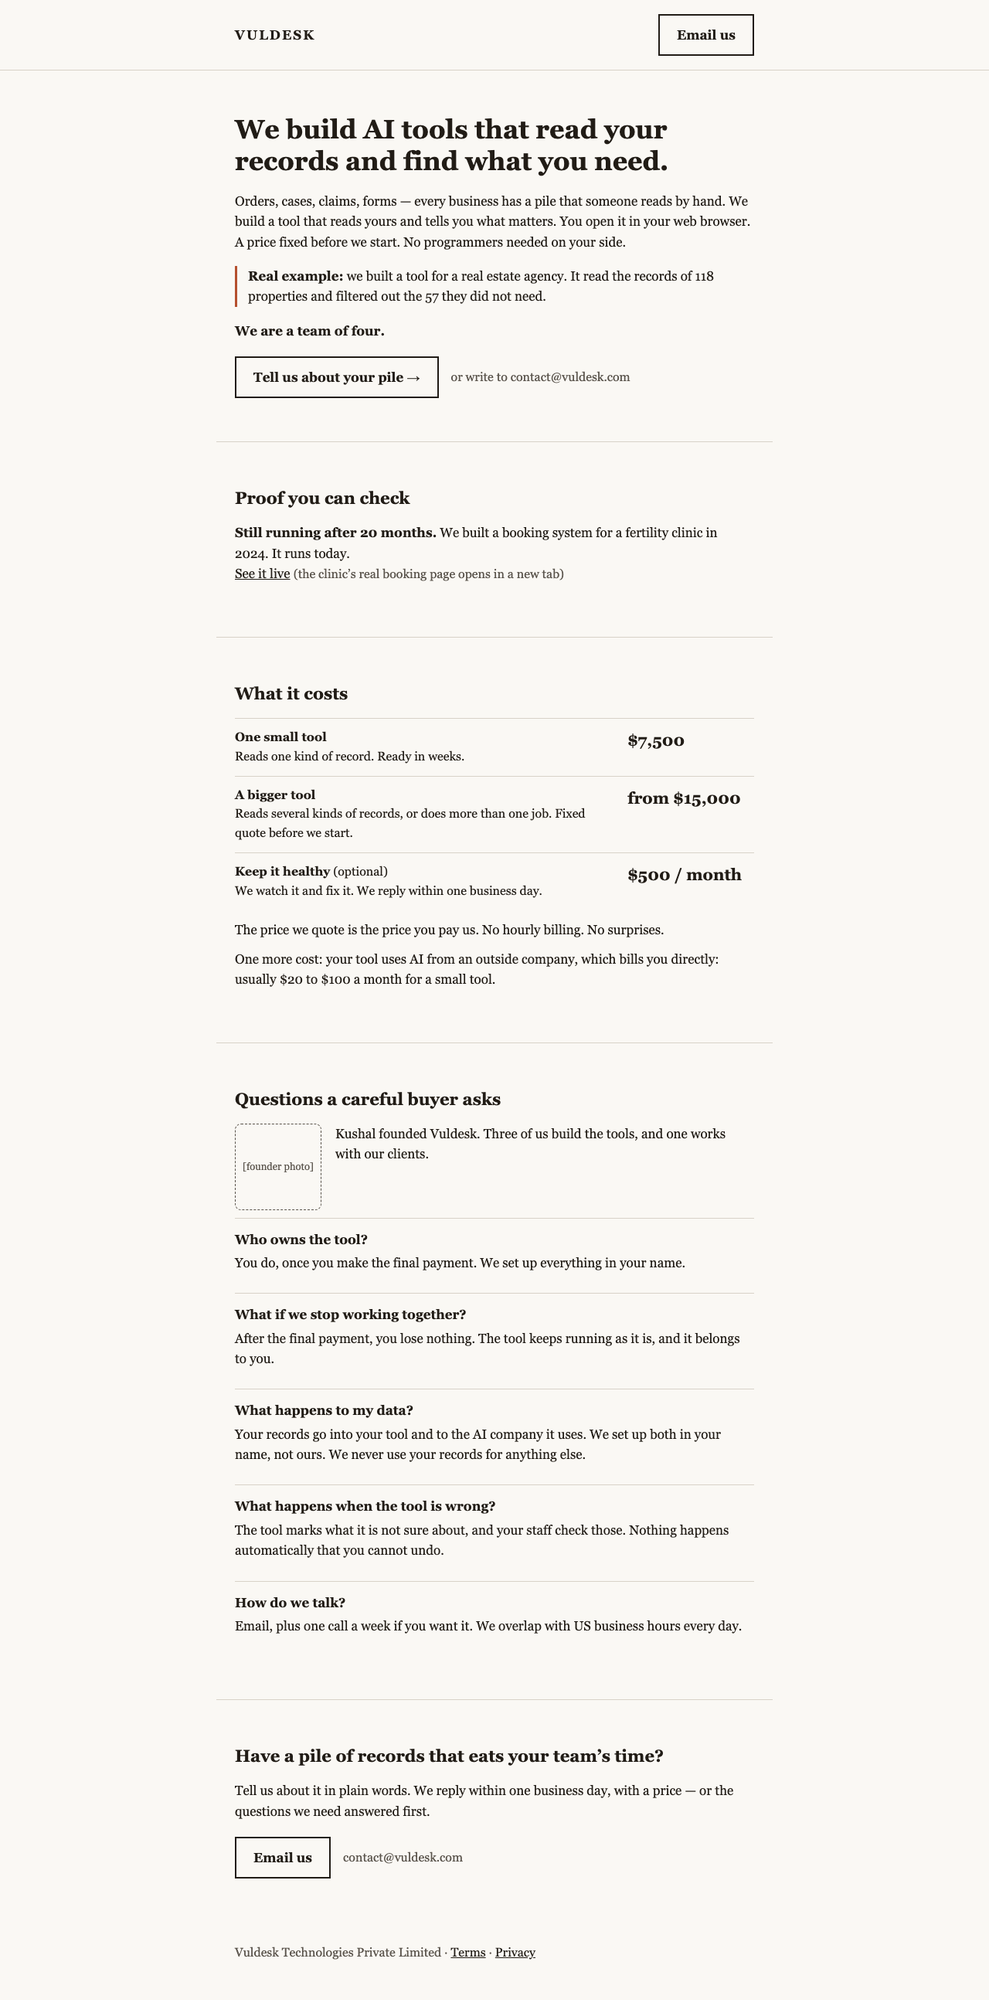
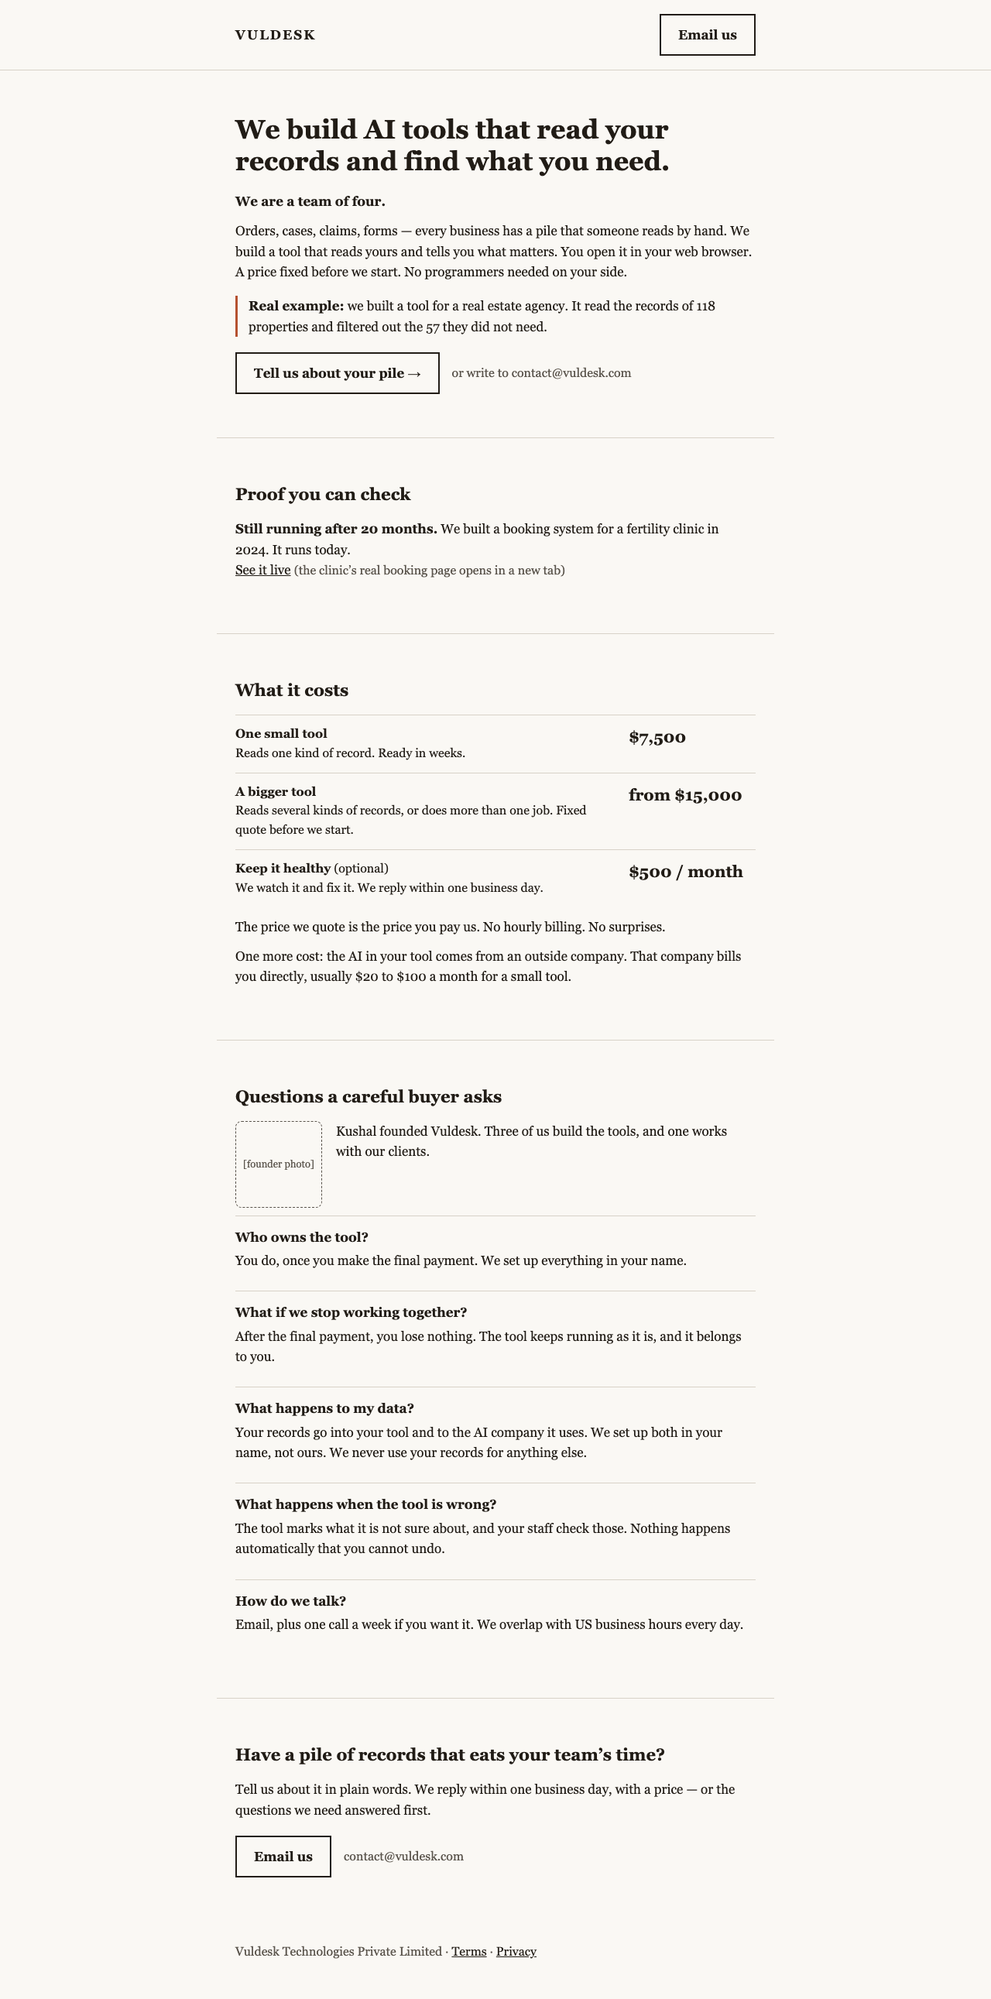
fix: team size directly under the H1; cost line in two sentences (D35)
P6 on 705336a failed twice on one group: the clinic owner on the phone
read only the H1 and the start of the next line, and answered "not sure".
Owner decision D35 = A (2026-10-31):
- "We are a team of four." moves directly under the H1 (hero child 2; the
  position-based stagger is unchanged). Phone 375 x 667: button 624 px,
  email line now inside the fold at 664 px.
- The cost line becomes two sentences, with the same facts as Q8.
- Wireframe of record v4.7; the design doc and the harness history record
  the run. 444 of 450 visible words.

diff --git a/docs/designs/assets/one-page-wireframe-v4.html b/docs/designs/assets/one-page-wireframe-v4.html
@@ -3,7 +3,7 @@
 <head>
 <meta charset="utf-8">
 <meta name="viewport" content="width=device-width, initial-scale=1">
-<title>Vuldesk — one-page wireframe v4.6</title>
+<title>Vuldesk — one-page wireframe v4.7</title>
 <!-- WIREFRAME v4 — company story (office hours 2026-10-30). Builds on v3 and on
      the live page (index.astro at 6793c65): same five blocks, same set-letter
      tokens, same prices. Changes, each tied to a decision of this session:
@@ -44,6 +44,9 @@
      you need" (was "give you answers"); price row 2 "or does more than one job" (was "and does more
      with them"); the cost line names "AI from an outside company". Kept: price row 1, the proof line,
      the example without the 28-hours figure.
+     v4.7 (D35 = A, owner 2026-10-31, after P6 on 705336a failed twice: the clinic owner on the phone
+     read only the H1 and the start of the next line): "We are a team of four." moves directly under
+     the H1; the cost line becomes two sentences (same facts as Q8).
 -->
 <style>
   :root {
@@ -102,13 +105,13 @@
 <section>
   <div class="measure">
     <h1>We build AI tools that read your records and find what you need.</h1>
+    <p><b>We are a team of four.</b></p>
     <p>Orders, cases, claims, forms &mdash; every business has a pile that someone reads
        by hand. We build a tool that reads yours and tells you what matters. You open it
        in your web browser. A price fixed before we start. No programmers needed on
        your side.</p>
     <p class="callout"><b>Real example:</b> we built a tool for a real estate agency. It read
        the records of 118 properties and filtered out the 57 they did not need.</p>
-    <p><b>We are a team of four.</b></p>
     <div class="cta-row">
       <a class="btn" href="mailto:contact@vuldesk.com?subject=My%20pile%20of%20records&amp;body=Hi%20Vuldesk%20team%2C">Tell us about your pile &rarr;</a>
       <span class="cta-alt">or write to contact@vuldesk.com</span>
@@ -147,8 +150,8 @@
     </table>
     <p style="margin-top:12px">The price we quote is the price you pay us. No hourly
        billing. No surprises.</p>
-    <p>One more cost: your tool uses AI from an outside company, which bills you
-       directly: usually $20 to $100 a month for a small tool.</p>
+    <p>One more cost: the AI in your tool comes from an outside company. That company
+       bills you directly, usually $20 to $100 a month for a small tool.</p>
   </div>
 </section>
 

diff --git a/docs/designs/company-story-we-voice.md b/docs/designs/company-story-we-voice.md
@@ -22,8 +22,8 @@ replaces these parts of the August doc:
 - CHECK 3's banned list (item 7), and the cold-read harness pass bar and protocol (P6, item 10).
 Everything else stays as written: the reader, the offer, the prices, the set-letter design
 system (including design-review D14: its first-screen rule stays, with the H1, the first
-sentence of the sub and the CTA on the 375 x 667 first screen; the hero keeps the live order, the
-example, then the team line, then the CTA, not the "evidence line directly after the CTA" that D14
+sentence of the sub and the CTA on the 375 x 667 first screen; the hero order is the H1, the team
+line, the sub, the example, then the CTA (D35, owner 2026-10-31, after P6 on `705336a`), not the "evidence line directly after the CTA" that D14
 also names), CHECKS 1-2 and 4-8, and the rest of the harness.
 
 ## Problem Statement
@@ -239,7 +239,7 @@ as the team story.
 ## Recommended Approach
 
 E as it stands after D10-D16. The copy of record is
-`docs/designs/assets/one-page-wireframe-v4.html` (v4.6, after the copy round). In the page copy (item 1), each change
+`docs/designs/assets/one-page-wireframe-v4.html` (v4.7, after P6 on `705336a`; D35). In the page copy (item 1), each change
 replaces an existing line, except two new lines: the team line and the AI cost line. Items 0, 6, 7,
 9, 10 and 11 add new files or new entries, and each item names them.
 
@@ -256,7 +256,7 @@ replaces an existing line, except two new lines: the team line and the AI cost l
      real estate agency. It read the records of 118 properties and filtered out the 57 they did
      not need." ("agency", not the owner's "agents": "agents" is on the jargon list. The owner
      confirmed this line as true on 2026-10-31, Q12.)
-   - Hero (D12): after the example, a plain paragraph: "**We are a team of four.**" (True on
+   - Hero (D12, D35): directly under the H1, a plain paragraph: "**We are a team of four.**" (True on
      2026-10-31 per Q7. Update this line and the founder line together when the team changes; one
      code comment above both lines says so, E4.) The roles sentence goes to the
      founder line (below), because August design-review D14 requires the H1, the first sentence
@@ -264,12 +264,14 @@ replaces an existing line, except two new lines: the team line and the AI cost l
      the v4.3 hero text: with the roles sentence in the hero, the button's bottom edge sits at
      672 px, 5 px below the fold; with the short line it sits at 646 px. On the spike build of the
      v4.4 copy (fonts loaded), the button ends at 630 px and the email line at 670 px, 3 px below
-     the fold (eng review E7).
+     the fold (eng review E7). With the team line directly under the H1 (D35, v4.7), the button
+     ends at 624 px and the email line at 664 px, inside the fold.
    - Proof: "I built a booking system" becomes "We built a booking system".
    - Prices: "We watch it and fix it. We reply within one business day." and "The price we
      quote is the price you pay us." ("us" is new: the page now names a second payee.) Then a
-     new line (Q8): "One more cost: your tool uses AI from an outside company, which bills you
-     directly: usually $20 to $100 a month for a small tool." (D33, after the copy round). Price row
+     new line (Q8): "One more cost: the AI in your tool comes from an outside company. That company
+     bills you directly, usually $20 to $100 a month for a small tool." (D35, after P6: the D33
+     one-sentence version lost 3 of 3 whole-page readers). Price row
      2 becomes "Reads several kinds of records, or does more than one job." (D32)
    - Trust block founder line: "Kushal founded Vuldesk. Three of us build the tools, and one
      works with our clients." The photo and its alt text "Kushal, founder of Vuldesk" stay. The photo file moves
@@ -353,7 +355,7 @@ replaces an existing line, except two new lines: the team line and the AI cost l
 Word budget: wireframe v4.4 has 427 visible words and zero jargon terms (CHECK 5 logic run on
 the file). The built page has a longer <title> and footer than the wireframe and a photo in
 place of the placeholder, so CHECK 5 on the build decides; expect about 435 of 450. Measured on the spike build of the v4.4 copy: 438 of 450 (eng
-review, 2026-10-31). After the copy round (v4.6): 441 of 450, zero jargon.
+review, 2026-10-31). After the copy round (v4.6): 441 of 450, zero jargon. After D35 (v4.7): 444 of 450.
 
 11. `TODOS.md` (eng review E11): TODO 4 names the new buttons ("Tell us about your pile", "Email
     us"), and TODO 1 says "a small team" in place of "a solo operator". New TODO entries follow
@@ -428,6 +430,18 @@ rewrite also lost 3 of 3, so OQ3 stays open for row 1); the cost line names "AI 
 company" (lost 0 of 3, was 3 of 3; D33); the proof line stays (the "Not AI" version lowered trust for
 3 of 3; D34). Raw answers: `designs/wireframe-20261030/cold-read-v45.json`.
 
+P6 on the PR head `705336a` (2026-10-31; raw answers `designs/wireframe-20261030/p6-705336a-results.jsonl`
+and `p6-705336a-rerun.jsonl`): FAIL. Whole-page part: would contact new 3 of 3, live 2 of 3 (pass); the
+rewritten cost line lost 3 of 3, and the unchanged "Keep it healthy (optional)" lost 3 of 3 (an open
+question). Five-second part: 5 of 6 groups passed with medians equal to live (operations manager on
+the phone: 8 against 7); the clinic owner on the phone answered "not sure" in 1 of 3 runs, because she
+read only the H1 and the start of the next line. The D22 re-run failed the same way and was stopped
+after 8 of 36 runs, because the other runs could not change the fail. Team read over both passes: new
+24 of 26 "a team" (2 "not sure"), live 24 of 24 "one person". D35 (owner, 2026-10-31) = A: the team
+line moves directly under the H1, the cost line becomes two sentences, and P6 runs again on the new
+head. Open question for later: in 5 of 9 runs on the new page, the home-buying president asks what the
+example saved in hours or dollars (D31 left the 28-hours figure out).
+
 Answered on 2026-10-31: the monthly AI cost (Q8), the foreclosure example (Q9: removed; D15
 and Q10: back in plain words), the team size (Q7), who checks unsure items (Q11: the client's
 own staff), the pass bar (D14), the ownership wording (Q14), the city (D17: none) and the two
@@ -486,6 +500,8 @@ Scores are clinic owner, home-buying president, operations manager. Raw answers 
 | 2026-10-31 | wireframe v4.3 (example back in plain words; "your staff check those"; no booking link) | 6, 7, 7: 1 point under (president); accepted, D16 | 6, 8, 8 at 375 x 712 (email line below the fold) | 0 of 6 | 6 of 6 (5 guessed 4) | 3 of 3 |
 | 2026-10-31 | wireframe v4.4 (roles moved to the founder line; ownership answers per Q14; no booking link) | not run: P6 tests the built page | not run | - | - | - |
 | 2026-10-31 | built v4.4 vs v4.5 (the five copy-round rewrites), one two-step run per persona (`cold-read-v45.json`) | v4.4: 6, 8, 8; v4.5: 6, 8, 7 | not run | 0 of 6 | 6 of 6 (each guessed 4) | 6 of 6 |
+| 2026-10-31 | P6 run 1 on built `705336a` (v4.6) vs `6793c65`: 36 five-second + 6 whole-page runs | medians 6, 8, 8; live 6, 8, 8 | medians 6, 8, 8; live 6, 8, 7; clinic owner 1 of 3 "not sure": FAIL | new 0 of 21, live 21 of 21 | new 20 of 21 | new 3 of 3, live 2 of 3 |
+| 2026-10-31 | P6 re-run (D22) on `705336a`, stopped after 8 of 36 five-second runs | 6, 8, 8; live 6, 8, 8 (1 run each) | clinic owner "not sure" again: FAIL | new 0 of 5, live 3 of 3 | new 4 of 5 | not run |
 
 The control run checks the harness. In August the built page scored 8, 9, 9. With this
 harness, the same live page scores 6, 8, 7, exactly like v4 and v4.1. So the five-second

diff --git a/docs/designs/assets/cold-read-harness.md b/docs/designs/assets/cold-read-harness.md
@@ -112,6 +112,8 @@ lowered your trust).
 | 2026-10-31 | wireframe v4.1 (no products row, no team size) | desktop 6, 8, 7; 0 of 6 "a team" (all "not sure") |
 | 2026-10-31 | wireframe v4.2 ("We are a team of four") | desktop 6, 7, 7; phone same text (measured at 375 x 712); 3 of 3 "a team" (each guessed 4) |
 | 2026-10-31 | wireframe v4.3 (plain real-estate example) | desktop 6, 7, 7; phone 6, 8, 8 at 375 x 712; 6 of 6 "a team"; president repeats (standalone, desktop): v4.3 7, 8, 8, 8 vs live 8, 8, 8, 8 — equal medians, accepted (D16, 2026-10-31) |
+| 2026-10-31 | P6 run 1, built 705336a vs live 6793c65 (42 runs) | five-second medians equal to live in 5 of 6 groups (operations manager, phone: 8 vs 7); new 20 of 21 "a team", live 21 of 21 "one person"; clinic owner, phone: 1 of 3 "not sure": FAIL; would contact 3 of 3 vs 2 of 3 |
+| 2026-10-31 | P6 re-run (D22) on 705336a, stopped after 8 of 36 | clinic owner, phone: "not sure" again: FAIL; owner D35 = A (team line under the H1, cost line in two sentences) |
 
 IDs from the company-story session carry their date, for example "D14 (2026-10-31)",
 because this file already uses D14 for the August mobile render. Raw answers:
